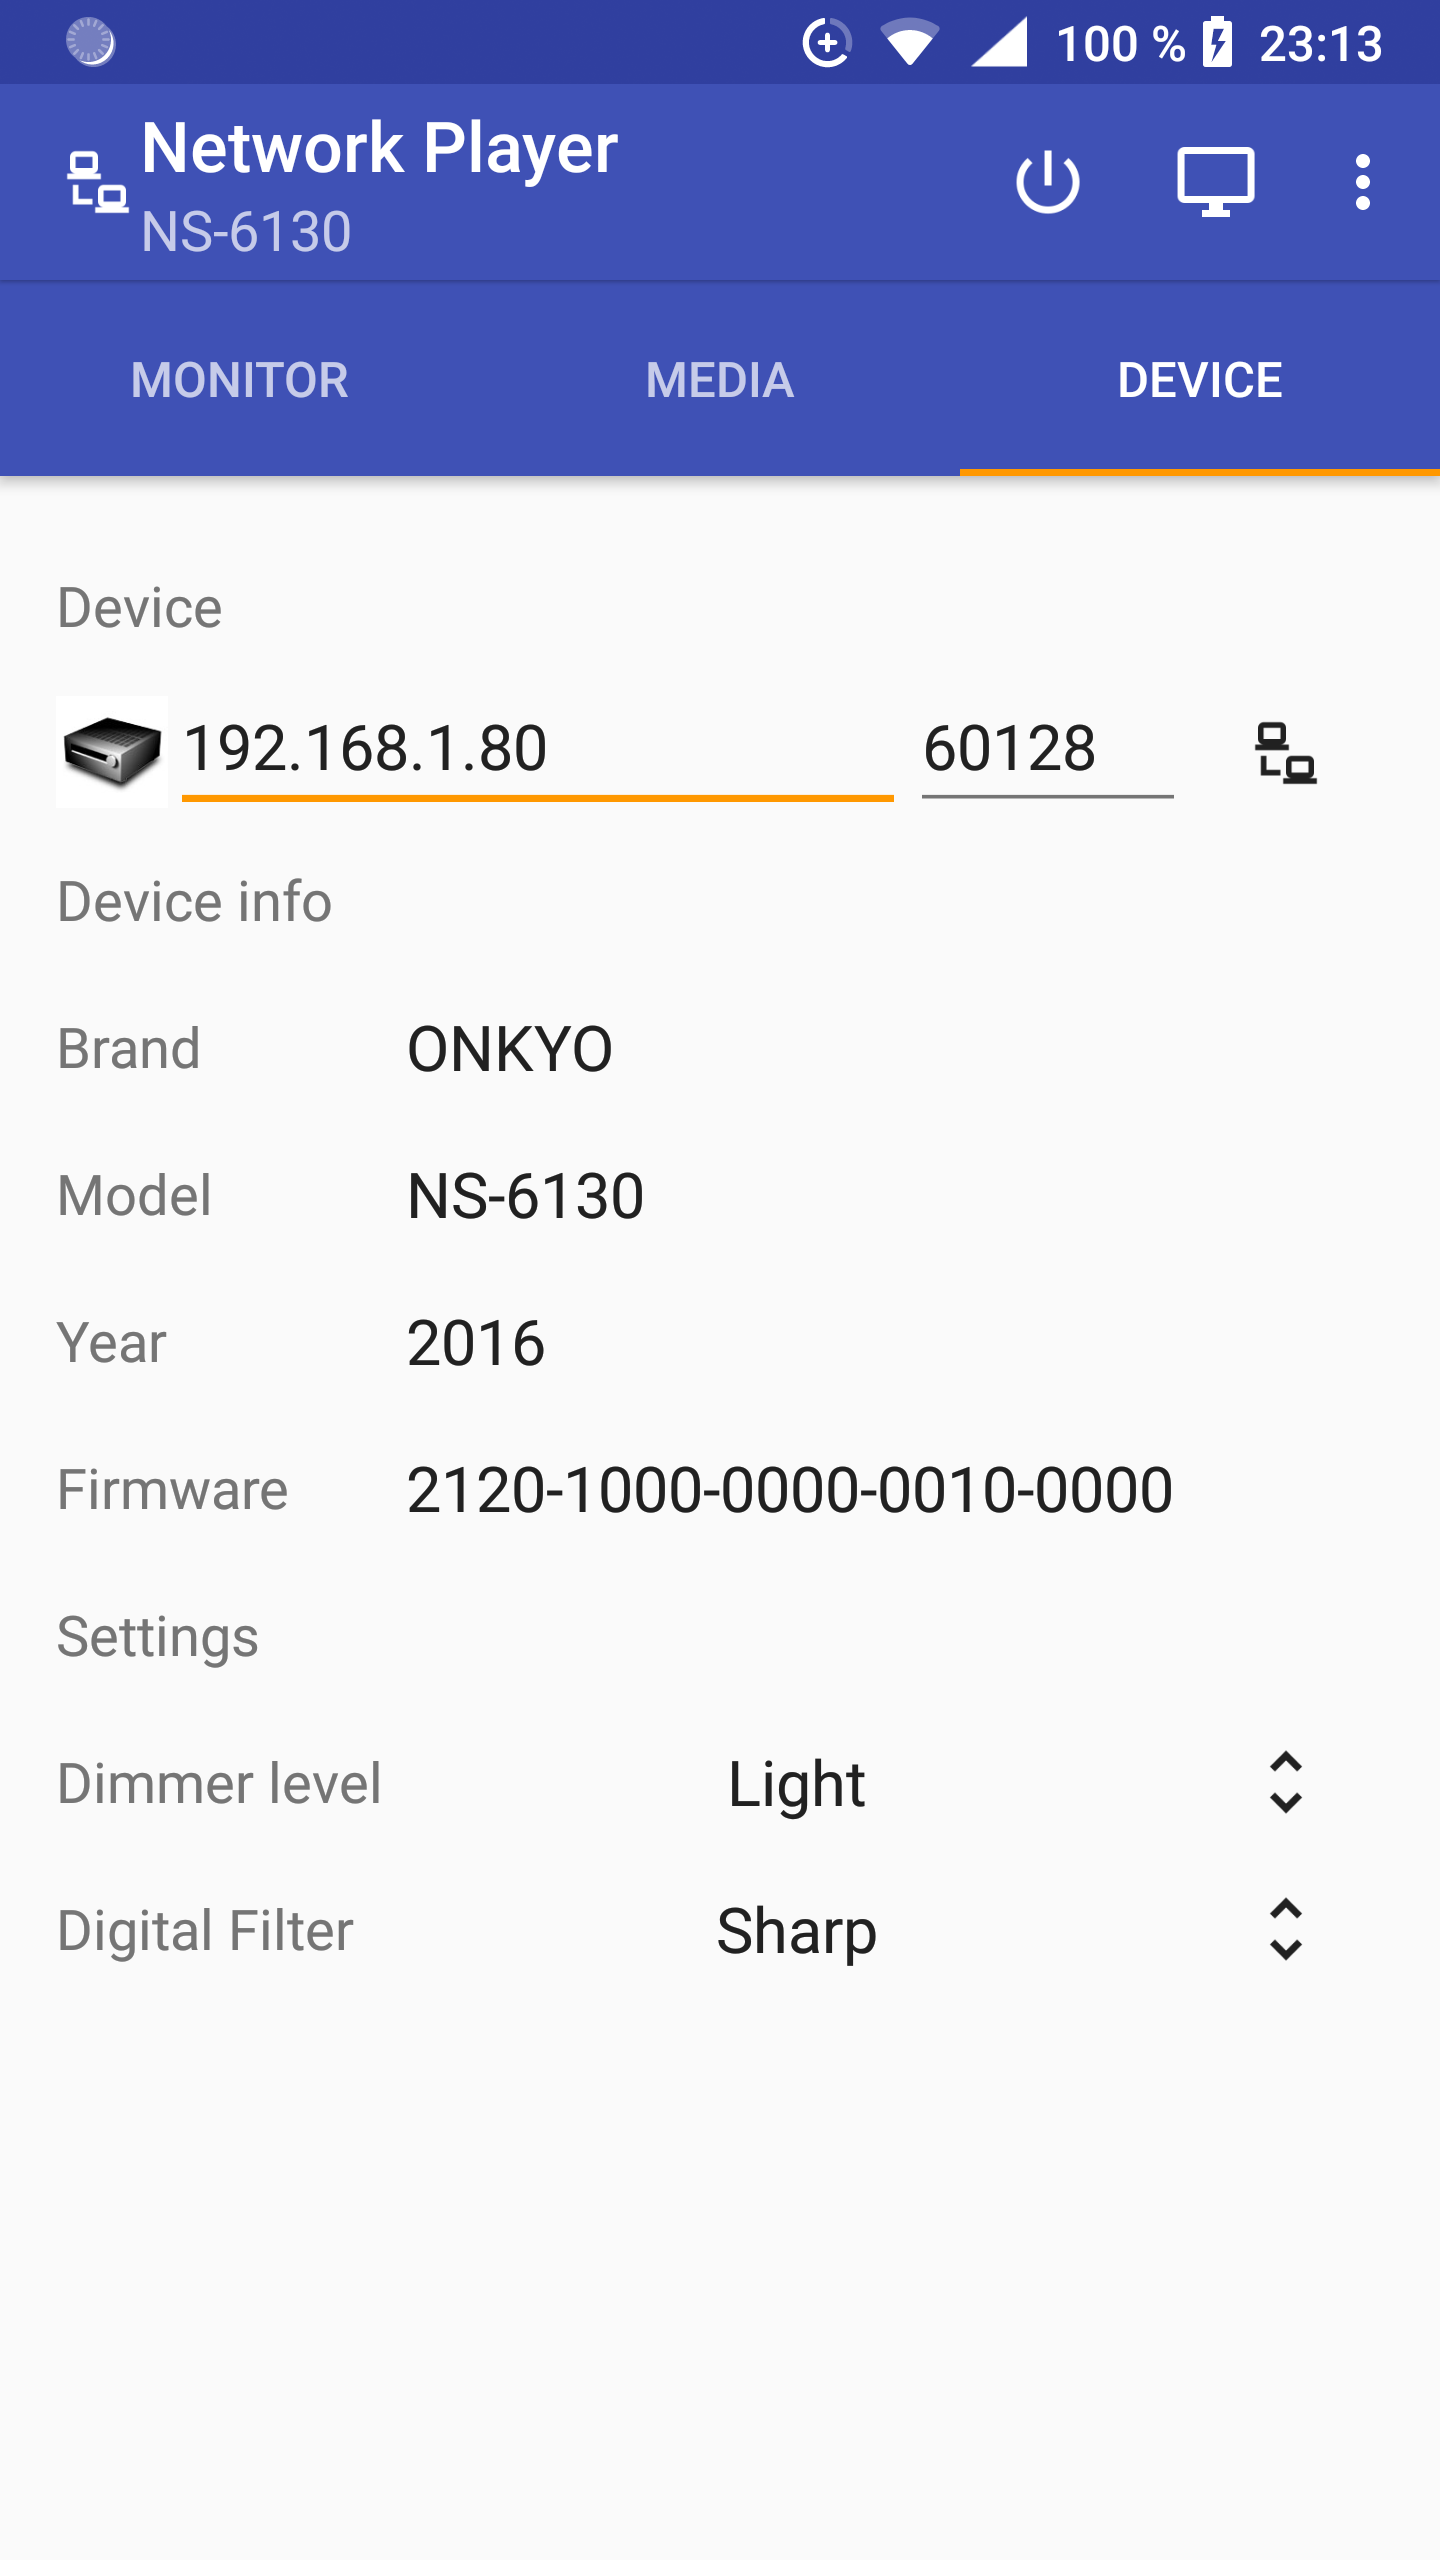
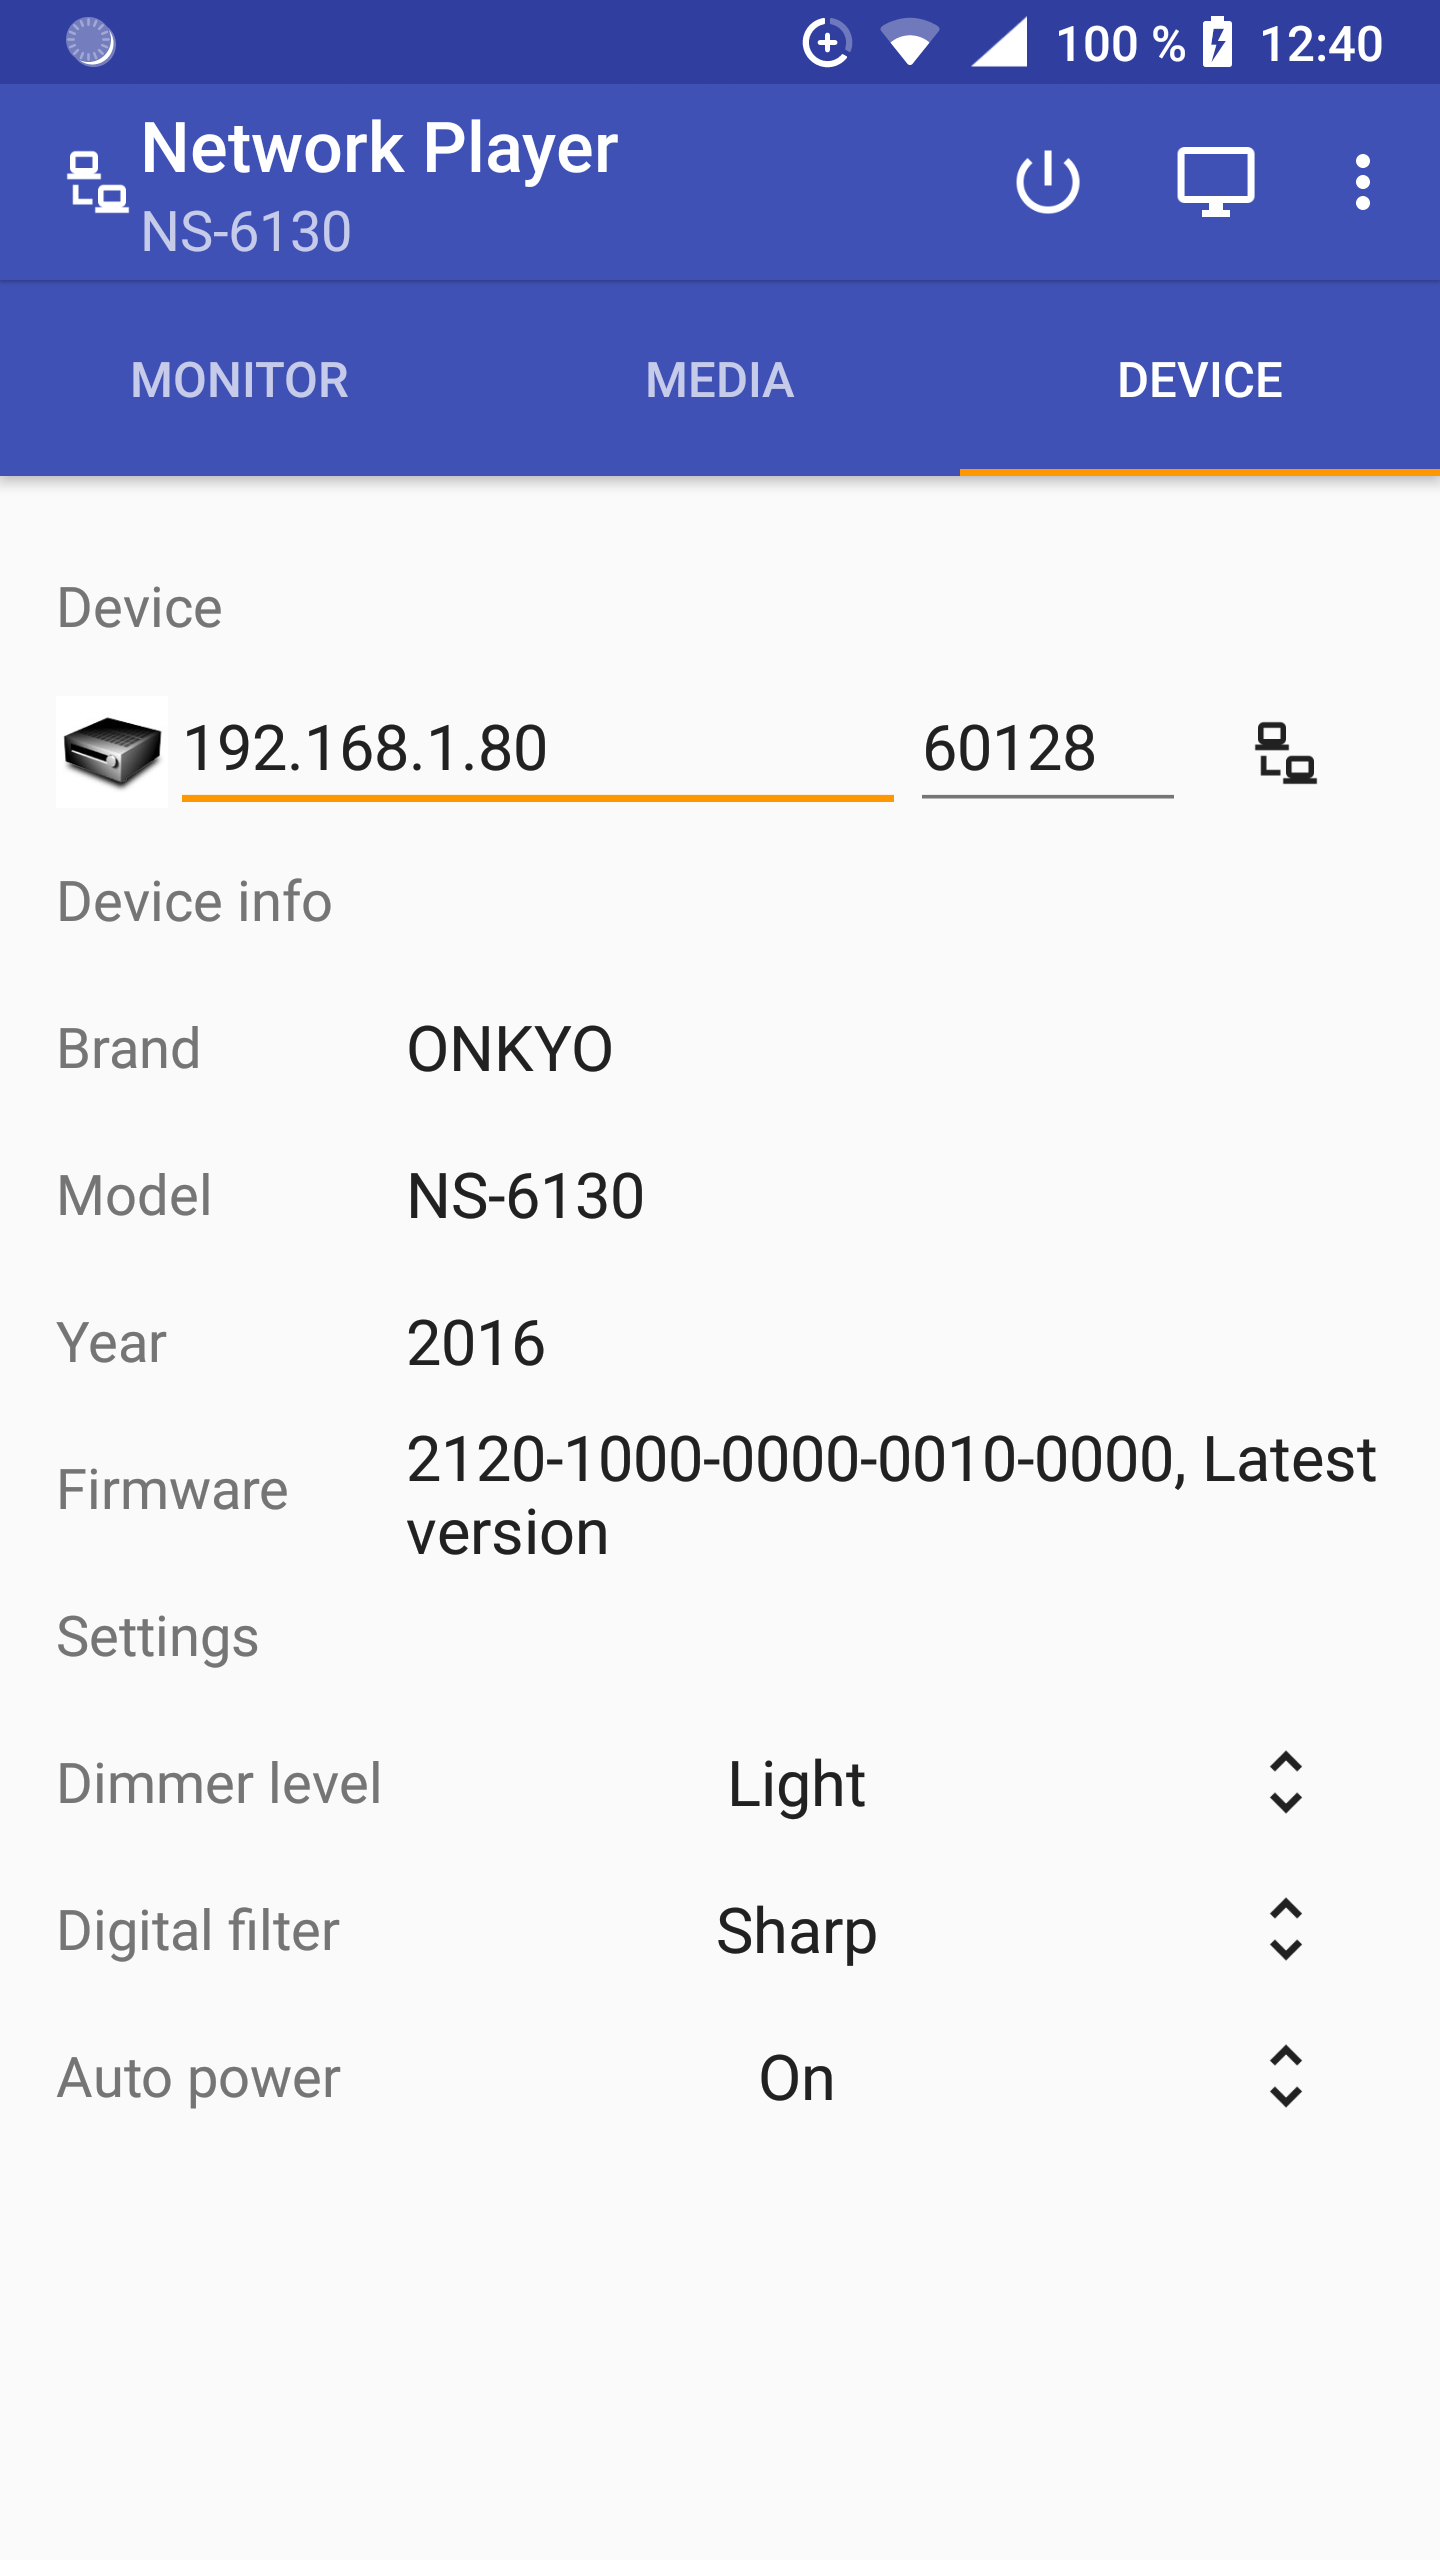
Added device auto power setting

diff --git a/app/src/main/java/com/mkulesh/onpc/iscp/messages/AutoPowerMsg.java b/app/src/main/java/com/mkulesh/onpc/iscp/messages/AutoPowerMsg.java
@@ -1,0 +1,93 @@
+/*
+ * Copyright (C) 2018. Mikhail Kulesh
+ *
+ * This program is free software: you can redistribute it and/or modify it under the terms of the GNU
+ * General Public License as published by the Free Software Foundation, either version 3 of the License,
+ * or (at your option) any later version.
+ *
+ * This program is distributed in the hope that it will be useful, but WITHOUT ANY WARRANTY; without
+ * even the implied warranty of MERCHANTABILITY or FITNESS FOR A PARTICULAR PURPOSE. See the
+ * GNU General Public License for more details. You should have received a copy of the GNU General
+ * Public License along with this program.
+ */
+
+package com.mkulesh.onpc.iscp.messages;
+
+import android.support.annotation.StringRes;
+
+import com.mkulesh.onpc.R;
+import com.mkulesh.onpc.iscp.EISCPMessage;
+import com.mkulesh.onpc.iscp.ISCPMessage;
+
+/*
+ * Auto Power Command
+ */
+public class AutoPowerMsg extends ISCPMessage
+{
+    public final static String CODE = "APD";
+
+    public enum Status implements StringParameterIf
+    {
+        NONE("N/A", R.string.device_auto_power_none),
+        OFF("00", R.string.device_auto_power_off),
+        ON("01", R.string.device_auto_power_on),
+        TOGGLE("UP", R.string.device_auto_power_toggle);
+
+        final String code;
+        final int descriptionId;
+
+        Status(final String code, final int descriptionId)
+        {
+            this.code = code;
+            this.descriptionId = descriptionId;
+        }
+
+        public String getCode()
+        {
+            return code;
+        }
+
+        @StringRes
+        public int getDescriptionId()
+        {
+            return descriptionId;
+        }
+    }
+
+    private final Status status;
+
+    AutoPowerMsg(EISCPMessage raw) throws Exception
+    {
+        super(raw);
+        status = (Status) searchParameter(data, Status.values(), Status.NONE);
+    }
+
+    public AutoPowerMsg(Status level)
+    {
+        super(0, null);
+        this.status = level;
+    }
+
+    public Status getStatus()
+    {
+        return status;
+    }
+
+    @Override
+    public String toString()
+    {
+        return CODE + "[" + status.toString() + "]";
+    }
+
+    @Override
+    public EISCPMessage getCmdMsg()
+    {
+        return new EISCPMessage('1', CODE, status.getCode());
+    }
+
+    @Override
+    public boolean hasImpactOnMediaList()
+    {
+        return false;
+    }
+}

diff --git a/app/src/main/java/com/mkulesh/onpc/DeviceFragment.java b/app/src/main/java/com/mkulesh/onpc/DeviceFragment.java
@@ -26,6 +26,7 @@ import android.widget.EditText;
 import android.widget.ImageView;
 import android.widget.TextView;
 
+import com.mkulesh.onpc.iscp.messages.AutoPowerMsg;
 import com.mkulesh.onpc.iscp.messages.DigitalFilterMsg;
 import com.mkulesh.onpc.iscp.messages.DimmerLevelMsg;
 import com.mkulesh.onpc.iscp.messages.FirmwareUpdateMsg;
@@ -65,9 +66,10 @@ public class DeviceFragment extends BaseFragment implements View.OnClickListener
 
         deviceCover = rootView.findViewById(R.id.device_cover);
 
+        prepareImageButton(R.id.btn_firmware_update, new FirmwareUpdateMsg(FirmwareUpdateMsg.Status.NET));
         prepareImageButton(R.id.device_dimmer_level_toggle, new DimmerLevelMsg(DimmerLevelMsg.Level.TOGGLE));
         prepareImageButton(R.id.device_digital_filter_toggle, new DigitalFilterMsg(DigitalFilterMsg.Filter.TOGGLE));
-        prepareImageButton(R.id.btn_firmware_update, new FirmwareUpdateMsg(FirmwareUpdateMsg.Status.NET));
+        prepareImageButton(R.id.device_auto_power_toggle, new AutoPowerMsg(AutoPowerMsg.Status.TOGGLE));
 
         update(null);
         return rootView;
@@ -164,6 +166,12 @@ public class DeviceFragment extends BaseFragment implements View.OnClickListener
         {
             ((TextView)rootView.findViewById(R.id.device_digital_filter)).setText(state.digitalFilter.getDescriptionId());
             setButtonEnabled(R.id.device_digital_filter_toggle, state.isOn());
+        }
+
+        // Auto power
+        {
+            ((TextView)rootView.findViewById(R.id.device_auto_power)).setText(state.autoPower.getDescriptionId());
+            setButtonEnabled(R.id.device_auto_power_toggle, state.isOn());
         }
     }
 }

diff --git a/app/src/main/java/com/mkulesh/onpc/State.java b/app/src/main/java/com/mkulesh/onpc/State.java
@@ -19,6 +19,7 @@ import com.mkulesh.onpc.iscp.ISCPMessage;
 import com.mkulesh.onpc.iscp.messages.AlbumNameMsg;
 import com.mkulesh.onpc.iscp.messages.ArtistNameMsg;
 import com.mkulesh.onpc.iscp.messages.AudioMutingMsg;
+import com.mkulesh.onpc.iscp.messages.AutoPowerMsg;
 import com.mkulesh.onpc.iscp.messages.DigitalFilterMsg;
 import com.mkulesh.onpc.iscp.messages.DimmerLevelMsg;
 import com.mkulesh.onpc.iscp.messages.FileFormatMsg;
@@ -57,6 +58,7 @@ class State
     DimmerLevelMsg.Level dimmerLevel = DimmerLevelMsg.Level.NONE;
     DigitalFilterMsg.Filter digitalFilter = DigitalFilterMsg.Filter.NONE;
     AudioMutingMsg.Status audioMuting = AudioMutingMsg.Status.NONE;
+    AutoPowerMsg.Status autoPower = AutoPowerMsg.Status.NONE;
 
     // Track info
     Bitmap cover = null;
@@ -143,6 +145,10 @@ class State
         if (msg instanceof AudioMutingMsg)
         {
             return process((AudioMutingMsg) msg);
+        }
+        if (msg instanceof AutoPowerMsg)
+        {
+            return process((AutoPowerMsg) msg);
         }
 
         // Track info
@@ -253,6 +259,13 @@ class State
     {
         final boolean changed = audioMuting != msg.getStatus();
         audioMuting = msg.getStatus();
+        return changed;
+    }
+
+    private boolean process(AutoPowerMsg msg)
+    {
+        final boolean changed = autoPower != msg.getStatus();
+        autoPower = msg.getStatus();
         return changed;
     }
 

diff --git a/app/src/main/java/com/mkulesh/onpc/StateManager.java b/app/src/main/java/com/mkulesh/onpc/StateManager.java
@@ -22,6 +22,7 @@ import com.mkulesh.onpc.iscp.MessageChannel;
 import com.mkulesh.onpc.iscp.messages.AlbumNameMsg;
 import com.mkulesh.onpc.iscp.messages.ArtistNameMsg;
 import com.mkulesh.onpc.iscp.messages.AudioMutingMsg;
+import com.mkulesh.onpc.iscp.messages.AutoPowerMsg;
 import com.mkulesh.onpc.iscp.messages.DigitalFilterMsg;
 import com.mkulesh.onpc.iscp.messages.DimmerLevelMsg;
 import com.mkulesh.onpc.iscp.messages.DisplayModeMsg;
@@ -216,6 +217,8 @@ class StateManager extends AsyncTask<Void, Void, Void>
                 new EISCPMessage('1', DigitalFilterMsg.CODE, EISCPMessage.QUERY));
         messageChannel.sendMessage(
                 new EISCPMessage('1', AudioMutingMsg.CODE, EISCPMessage.QUERY));
+        messageChannel.sendMessage(
+                new EISCPMessage('1', AutoPowerMsg.CODE, EISCPMessage.QUERY));
     }
 
     private void requestPlayState()

diff --git a/app/src/main/java/com/mkulesh/onpc/iscp/messages/MessageFactory.java b/app/src/main/java/com/mkulesh/onpc/iscp/messages/MessageFactory.java
@@ -69,6 +69,8 @@ public class MessageFactory
             return new DigitalFilterMsg(raw);
         case AudioMutingMsg.CODE:
             return new AudioMutingMsg(raw);
+        case AutoPowerMsg.CODE:
+            return new AutoPowerMsg(raw);
         default:
             throw new Exception("No factory method for message " + raw.getCode());
         }
